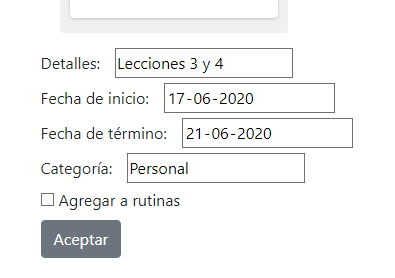
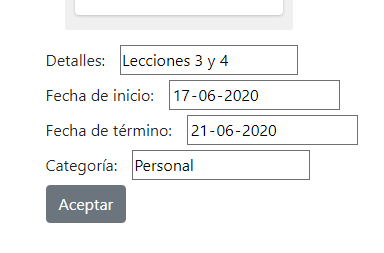
Modificadas las listas y uso de listas

Changed region(s): [[0.0938, 0.166, 0.9375, 0.9407], [0.1875, 0.0553, 0.75, 0.083]]

diff --git a/lista-uso.html b/lista-uso.html
@@ -20,6 +20,7 @@
         .img-container {
             width: 90%;
             margin: auto;
+            box-shadow: 0 4px 8px 0 rgba(0, 0, 0, 0.2), 0 6px 20px 0 rgba(0, 0, 0, 0.19);
         }
         
         .img-container img {
@@ -48,7 +49,7 @@
         </header>
         <main>
             <div class="container-fluid uso">
-                <div class="row my-3">
+                <div class="row my-4">
                     <div class="col-11 col-sm-6 img-wrapper">
                         <div class="img-container">
                             <img src="img/uso-listas-01.png" alt="Agregar actividades" class="img-thumbnail">
@@ -60,7 +61,7 @@
                         </div>
                     </div>
                 </div>
-                <div class="row my-3">
+                <div class="row my-4">
                     <div class="col-11 col-sm-6 img-wrapper">
                         <div class="img-container">
                             <img src="img/uso-listas-02.png" alt="Agregar detalles" class="img-thumbnail">
@@ -72,22 +73,10 @@
                         </div>
                     </div>
                 </div>
-                <div class="row my-3">
+                <div class="row my-4">
                     <div class="col-11 col-sm-6 img-wrapper">
                         <div class="img-container">
-                            <img src="img/uso-listas-03.png" alt="Agregar a rutinas" class="img-thumbnail">
-                        </div>
-                    </div>
-                    <div class="col-sm-6">
-                        <div class="content-container">
-                            <p>También puedes elegir si quieres que se agregue a tus rutinas. Al hacer esto, la actividad se agregará a la sección de rutinas, donde podrás elegir con qué frecuencia se repetirá.</p>
-                        </div>
-                    </div>
-                </div>
-                <div class="row my-3">
-                    <div class="col-11 col-sm-6 img-wrapper">
-                        <div class="img-container">
-                            <img src="img/uso-listas-04.png" alt="Ordenar actividades" class="img-thumbnail">
+                            <img src="img/uso-listas-03.png" alt="Ordenar actividades" class="img-thumbnail">
                         </div>
                     </div>
                     <div class="col-sm-6">

diff --git a/lista.html b/lista.html
@@ -25,7 +25,7 @@
         <main>
             <section>
                 <h1>Lista de tareas</h1>
-                <p>Organiza tus tareas de forma sencilla y cómoda. Puedes crear nuevas categorías, asignar fechas de inicio y término, programar una tarea para que se repita según intervalos personalizados, y mucho más.</p>
+                <p>Organiza tus tareas de forma sencilla y cómoda. Puedes crear nuevas categorías, asignar fechas de inicio y término, ordenarlas según tus preferencias, y mucho más.</p>
             </section>
             <section class="kanban-demo">
                 <div class="add-task">
@@ -95,11 +95,10 @@
                     </div>
                 </div>
                 <div class="task-details">
-                    <div><label for="details">Detalles: </label><input type="text"></div>
+                    <div><label for="details">Detalles: </label><input type="text" placeholder="Escribe algo"></div>
                     <div><label for="start-date">Fecha de inicio: </label><input type="date" name="start-date" id="start-date"></div>
                     <div><label for="end-date">Fecha de término: </label><input type="date" name="end-date" id="end-date"></div>
                     <div><label for="category">Categoría: </label><input type="text"></div>
-                    <div><input type="checkbox" name="routine" id="routine"><label for="routine">Agregar a rutinas</label></div>
                     <div><button id="add-details" class="btn btn-secondary">Aceptar</button></div>
                 </div>
             </section>
@@ -121,10 +120,6 @@
                 <div>
                     <h3>Clasifica tus tareas</h3>
                     <p>Puedes dividir tus actividades en distintas categorías: trabajo, familia, eventos importantes, cumpleaños, planes para vacaciones, o las categorías que quieras.</p>
-                </div>
-                <div>
-                    <h3>Define tu rutina</h3>
-                    <p>Puedes programar actividades para que se repitan diariamente, semanalmente, mensualmente, o de la forma que quieras. También puedes fijar un intervalo de tiempo en el que quieres que ocurra la repetición.</p>
                 </div>
             </section>
         </main>
